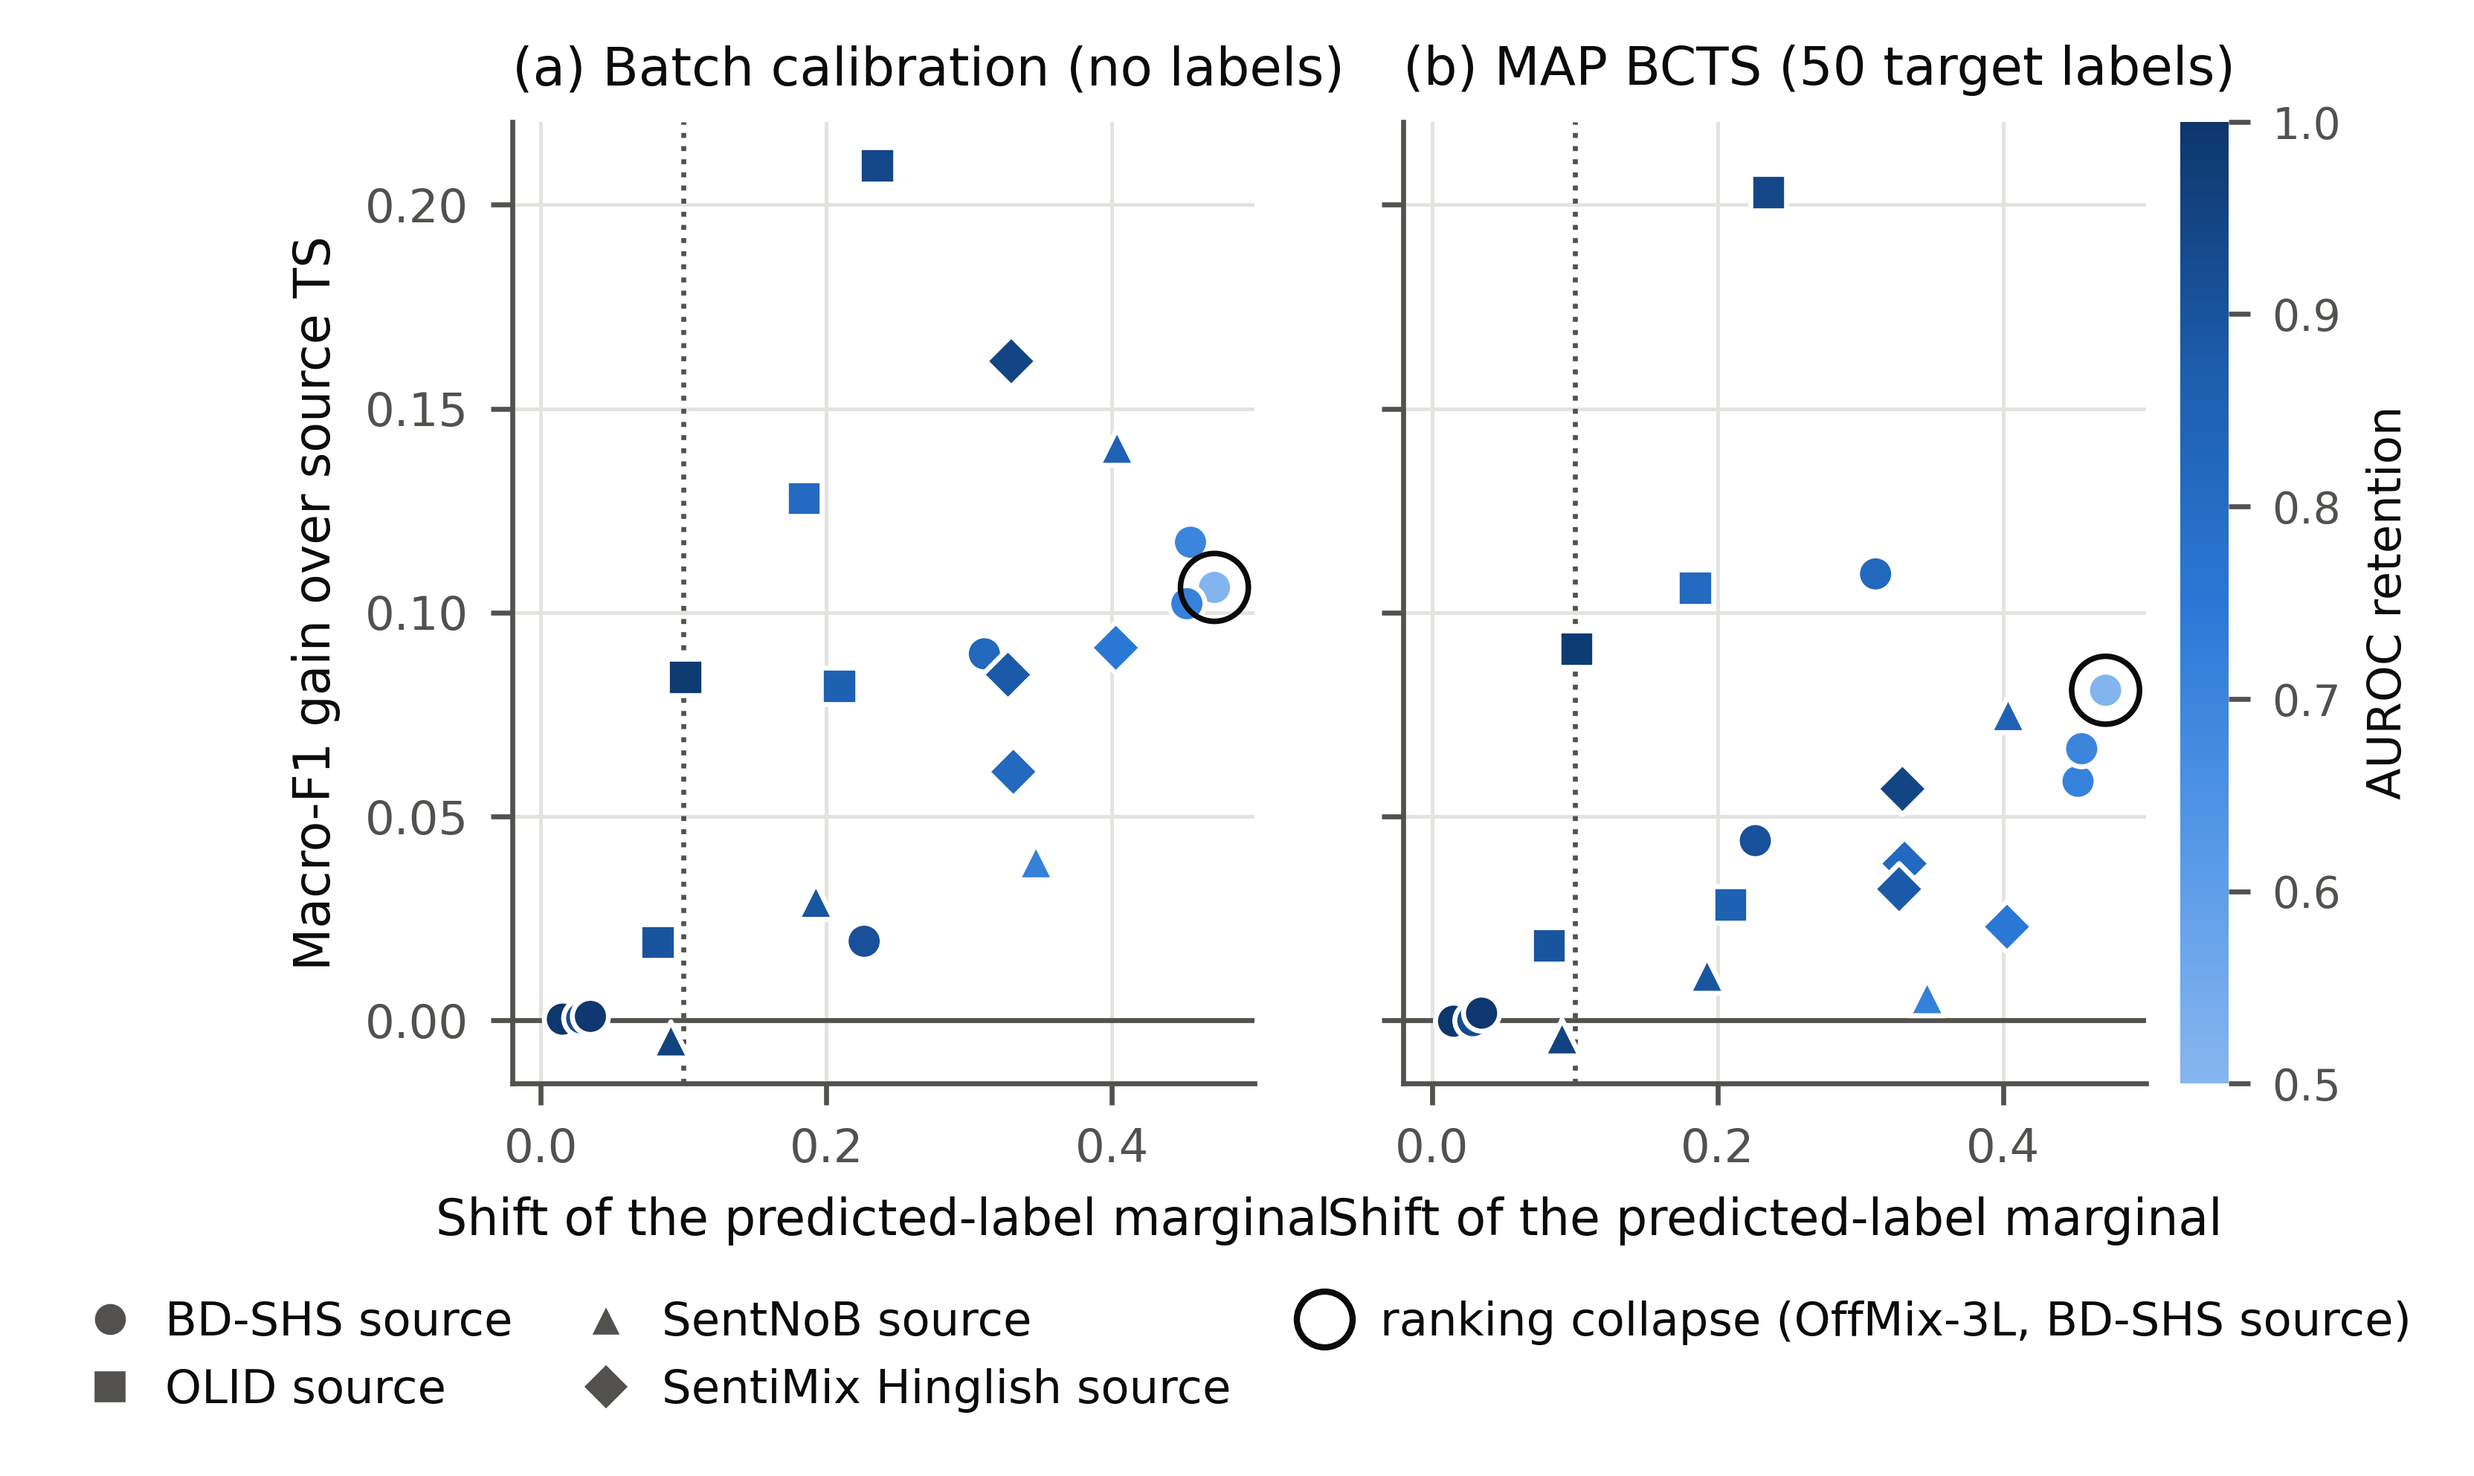
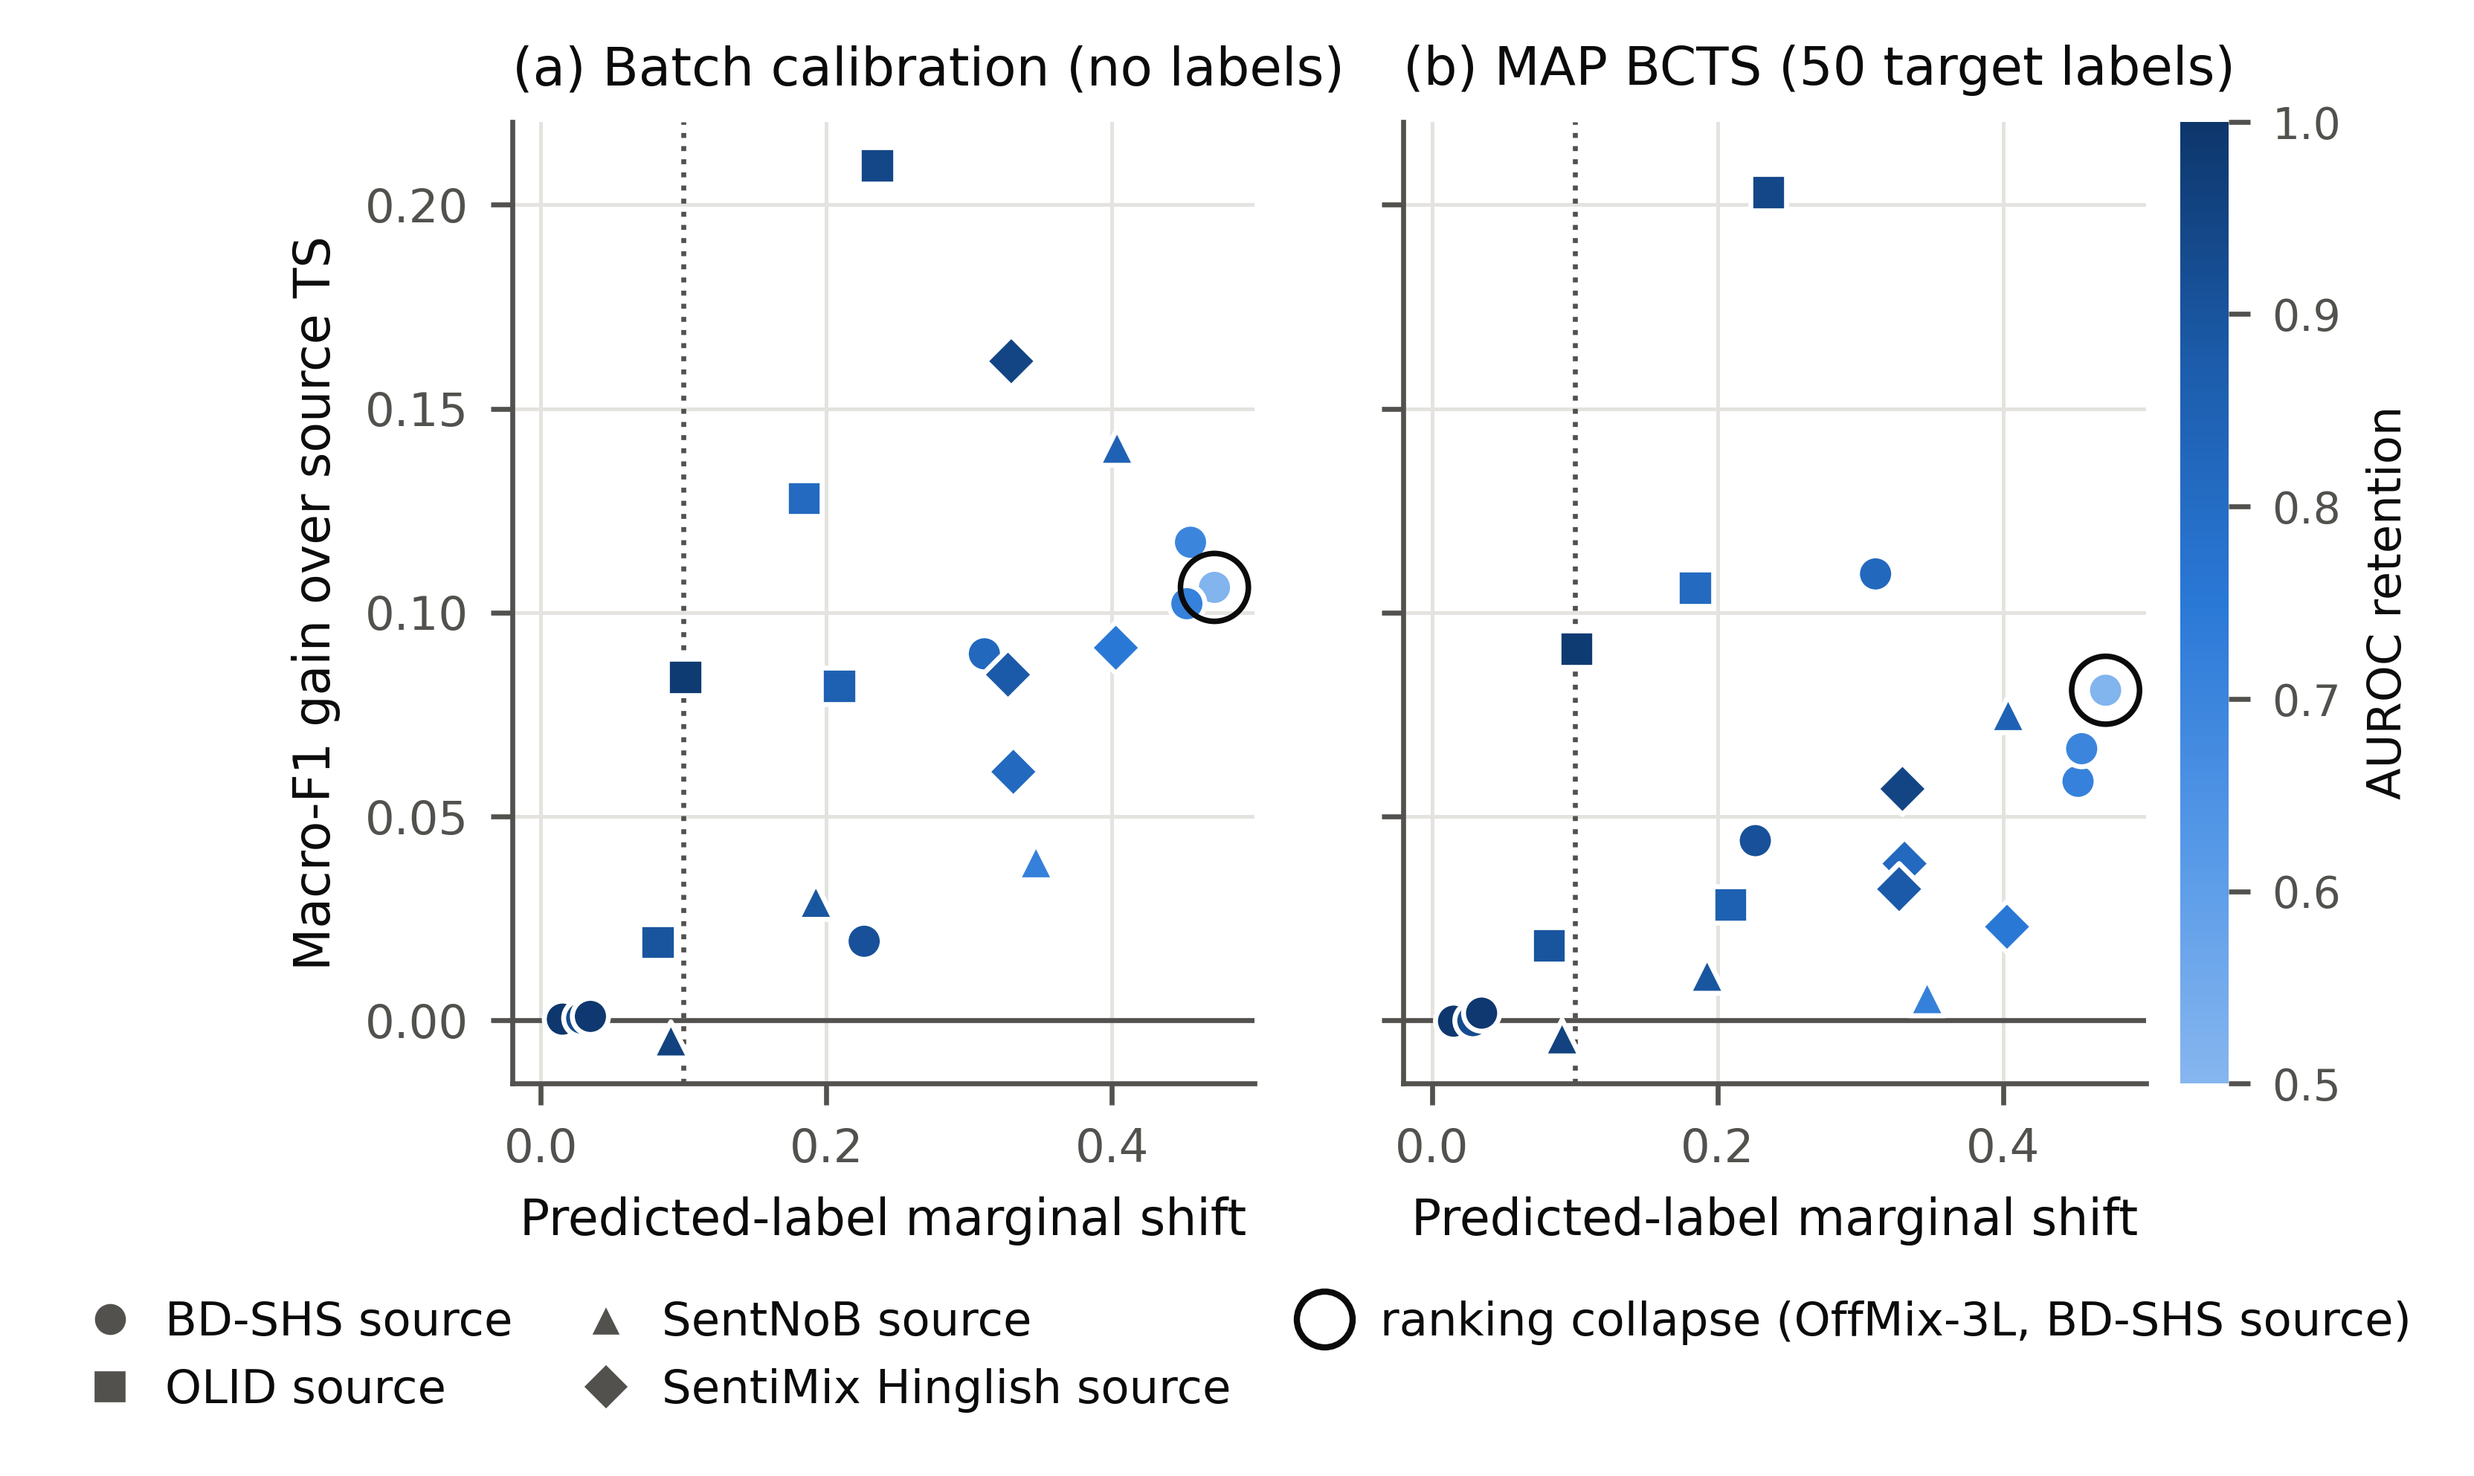
Fix overlapping panel titles and axis labels in the regime and bias-gain figures

Changed region(s): [[0.1858, 0.8121, 0.8978, 0.8433]]

diff --git a/src/publication_figures.py b/src/publication_figures.py
@@ -103,12 +103,11 @@ def regime_map():
         for _, row in d.iterrows():
             ax.annotate(condition_name(src, row.condition), (row.predicted_marginal_tv, row.auroc_retention),
                         xytext=LABEL_OFFSETS.get((src, row.condition), (4, 3)), textcoords="offset points", fontsize=6.5, color=INK_SECONDARY)
-        ax.set_title(f"{SOURCE_NAMES[src]}: {int(d.n_runs.iloc[0])} runs, {int(d.n_models.iloc[0])} encoders",
+        ax.set_title(f"{SOURCE_NAMES[src]}\n{int(d.n_runs.iloc[0])} runs, {int(d.n_models.iloc[0])} encoders",
                      loc="left")
         ax.set_xlim(-0.02, 0.58)
         ax.set_ylim(0.45, 1.04)
-    for ax in axes[1]:
-        ax.set_xlabel("Shift of the predicted-label marginal (total variation)")
+    fig.supxlabel("Shift of the predicted-label marginal (total variation)", fontsize=8, y=0.1, color=INK)
     fig.supylabel("AUROC retention (target / in domain)", fontsize=8, x=0.012, color=INK)
     handles = [plt.Line2D([], [], marker="o", ls="", color=SERIES[0], markersize=6, label="ranking retained"),
                plt.Line2D([], [], marker="o", ls="", markerfacecolor="white", markeredgecolor=SERIES[0], markersize=6,
@@ -117,7 +116,7 @@ def regime_map():
                           label="oracle temperature unbounded (collapse)"),
                plt.Line2D([], [], color=INK_SECONDARY, ls=":", lw=0.8, label="chance AUROC")]
     fig.legend(handles=handles, loc="lower center", ncol=2, bbox_to_anchor=(0.5, -0.06))
-    fig.tight_layout(rect=(0.012, 0.07, 1, 1))
+    fig.tight_layout(rect=(0.012, 0.11, 1, 1))
     return save(fig, "regime_map_source_transfer")
 
 
@@ -334,7 +333,7 @@ def all_pairs_bias_gain():
                    linewidth=0.9, zorder=4)
         ax.set_title(title, loc="left")
         ax.set_xlim(-0.02, 0.50)
-        ax.set_xlabel("Shift of the predicted-label marginal")
+        ax.set_xlabel("Predicted-label marginal shift")
     axes[0].set_ylabel("Macro-F1 gain over source TS")
     sm = plt.cm.ScalarMappable(cmap=cmap, norm=norm)
     bar = fig.colorbar(sm, ax=axes, fraction=0.035, pad=0.02)
